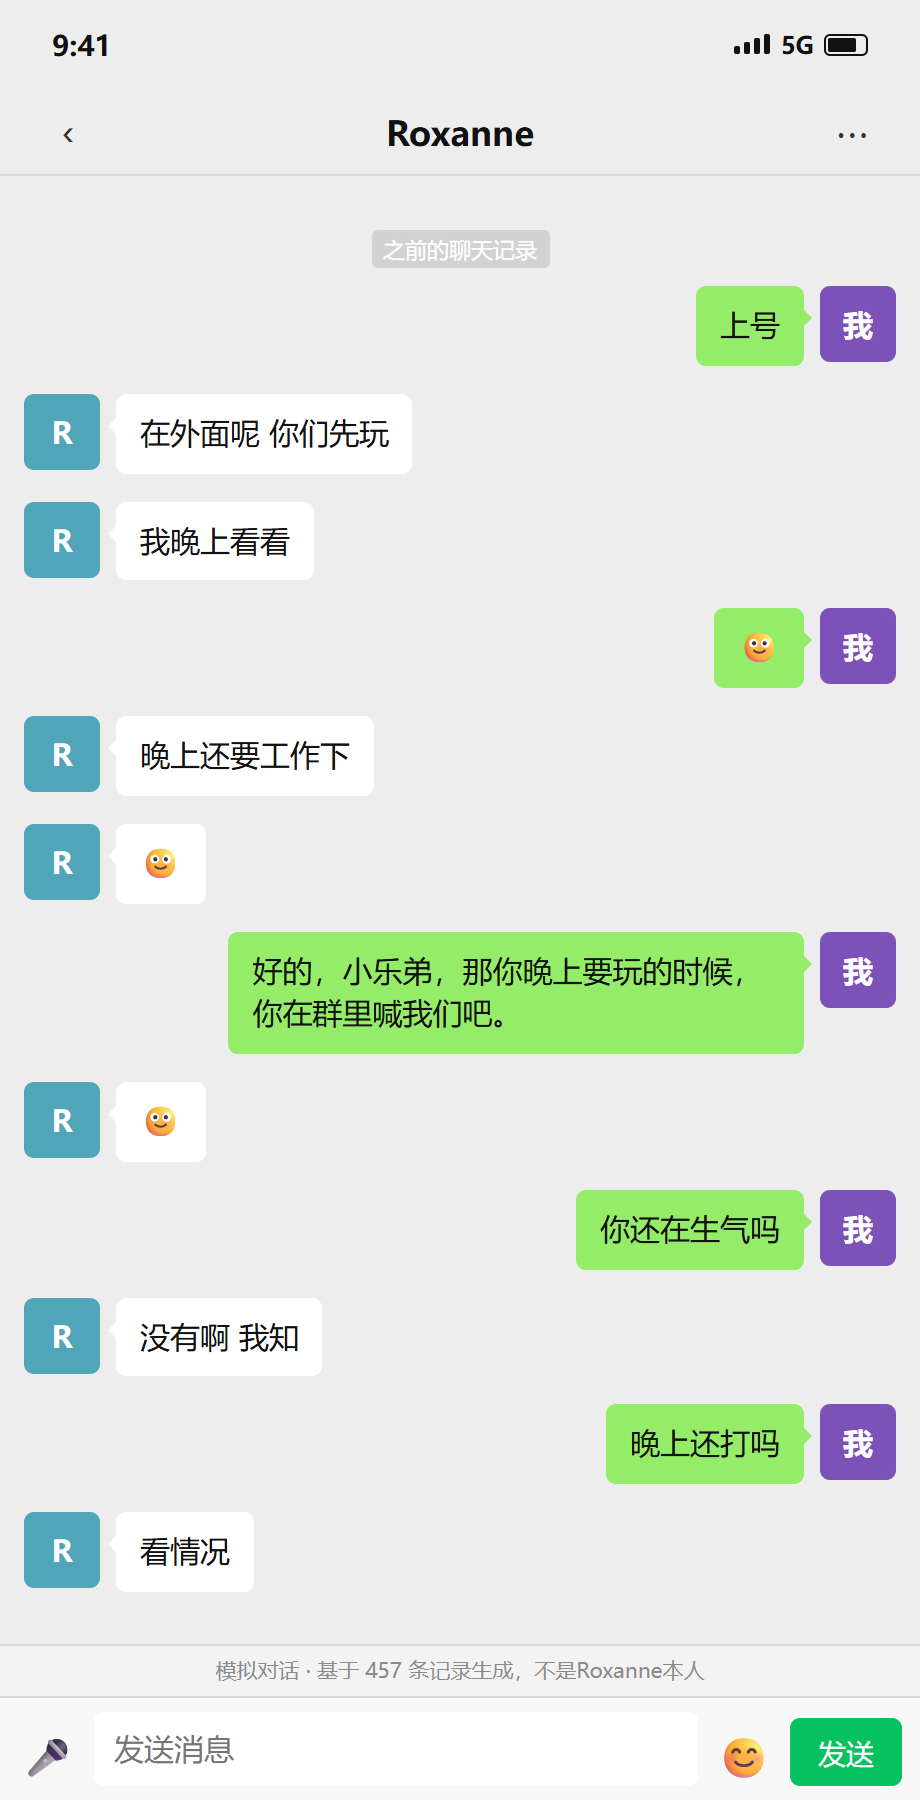
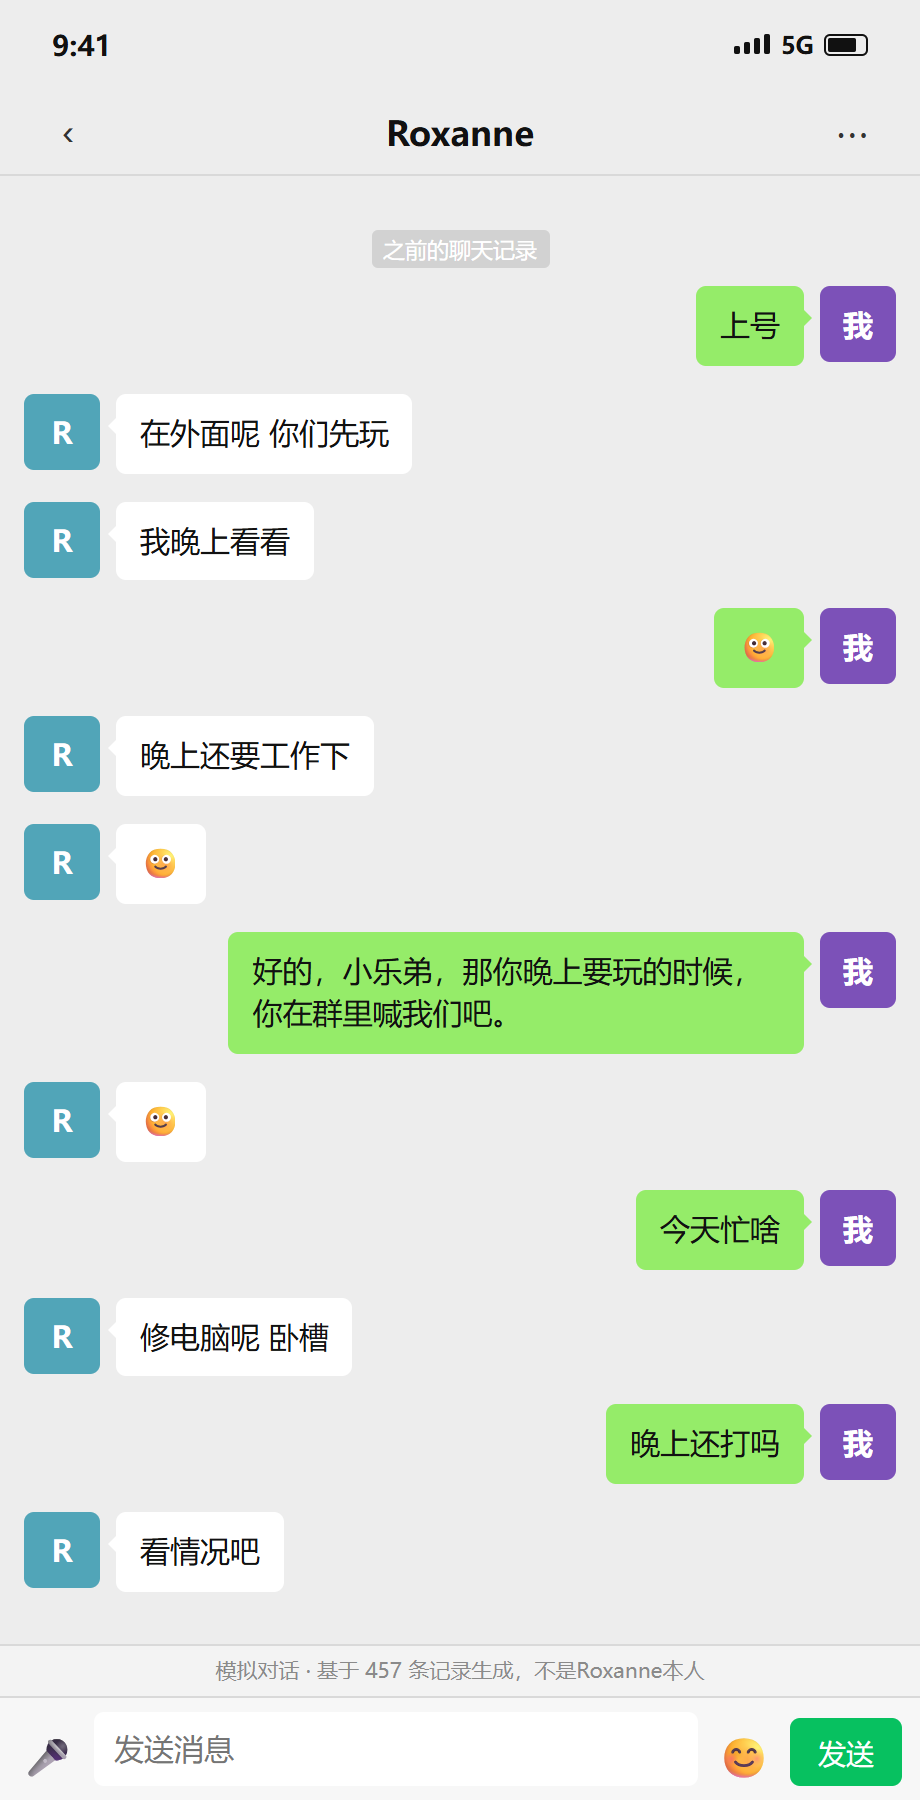
fix(sim): 不再复读原句，不回时给出说明
- persona 提示词改成「只学风格」，明确要求针对当前话题、别照抄原句
- 加 frequency/presence penalty；回复与之前一字不差时自动换一句
- 不回时显示「对方没有回复」，不再让人以为卡死
- 前 3 句必回（热身），之后才按真实回复率；不回最多等 12 秒
- 前端 70 秒超时，避免 fetch 挂住后输入框永久锁死
- verify_clean 跳过 gitignore 里的文件

Changed region(s): [[0.6087, 0.6533, 0.8522, 0.7156], [0.1522, 0.7156, 0.3652, 0.7778], [0.2435, 0.84, 0.2739, 0.8711]]

diff --git a/sim/sim.html b/sim/sim.html
@@ -69,6 +69,7 @@ body{margin:0;background:#c9c9c9;font-family:-apple-system,BlinkMacSystemFont,"P
 .msg.me .b::after{right:-9px;border-left-color:var(--green)}
 .msg .a{width:38px;height:38px;border-radius:5px;flex:0 0 38px;display:flex;align-items:center;
   justify-content:center;color:#fff;font-size:15px;font-weight:600}
+.tip{text-align:center;font-size:11px;color:#a8a8a8;margin:2px 0 14px}
 .sys{text-align:center;font-size:12px;color:#b04a3a;margin:6px 0 12px;padding:0 12px;line-height:1.5}
 
 .dots{display:inline-flex;gap:4px;align-items:center;height:12px}
@@ -176,7 +177,7 @@ const EMOJI = {
   "[强]":"👍","[心碎]":"💔","[裂开]":"💔","[偷笑]":"🤭","[色]":"😍","[脸红]":"😊",
   "[呲牙]":"😁","[可怜]":"🥺","[握手]":"🤝","[抱拳]":"🙏"
 };
-let persona = null, history = [], busy = false;
+let persona = null, history = [], busy = false, sent = 0;
 
 const cfg = () => { try { return JSON.parse(localStorage.getItem(CFG_KEY) || "{}"); } catch { return {}; } };
 const pretty = t => String(t || "").replace(/\[[^\]]{1,6}\]/g, m => EMOJI[m] || m);
@@ -254,17 +255,27 @@ async function send() {
   pushMsg("me", text);
   busy = true; $("#send").disabled = true;
 
+  sent += 1;
+  const turn = sent;   // 只算本次会话发出去的
   let data;
+  const ctl = new AbortController();
+  const timer = setTimeout(() => ctl.abort(), 70000);
   try {
     const r = await fetch("/api/reply", {
       method: "POST", headers: { "Content-Type": "application/json" },
-      body: JSON.stringify({ history, config: cfg() })
+      body: JSON.stringify({ history, config: cfg(), turn }),
+      signal: ctl.signal
     });
     data = await r.json();
   } catch (e) {
-    sysLine("连不上本地服务，确认 python sim/sim.py 还在跑");
-    busy = false; $("#send").disabled = false; return;
+    clearTimeout(timer);
+    sysLine(e.name === "AbortError"
+      ? "等了 70 秒没有结果，已放弃。检查网络或 key 是否可用。"
+      : "连不上本地服务，确认 python sim/sim.py 还在跑");
+    busy = false; $("#send").disabled = false;
+    return;
   }
+  clearTimeout(timer);
   if (!data || data.error) {
     sysLine((data && data.error) || "接口没有返回内容");
     busy = false; $("#send").disabled = false; return;
@@ -285,7 +296,15 @@ async function send() {
     setTimeout(() => {
       t.remove();
       $("#chatNav").classList.remove("typing");
-      if (data.reply) pushMsg("her", data.text);
+      if (data.reply) {
+        pushMsg("her", data.text);
+      } else {
+        const tip = document.createElement("div");
+        tip.className = "tip";
+        tip.textContent = "对方没有回复";
+        $("#msgs").appendChild(tip);
+        $("#msgs").scrollTop = $("#msgs").scrollHeight;
+      }
       busy = false; $("#send").disabled = false;
     }, typingMs);
   }, Math.max(300, delay - typingMs));

diff --git a/sim/sim.py b/sim/sim.py
@@ -73,7 +73,8 @@ def call_model(cfg: dict, persona: dict, history: list[dict]) -> str:
                  "content": "只输出她这一条回复的纯文本，不要引号、不要解释。"})
 
     body = json.dumps({"model": model, "messages": msgs,
-                       "temperature": 0.9, "max_tokens": 120}).encode("utf-8")
+                       "temperature": 0.9, "max_tokens": 120,
+                       "frequency_penalty": 0.7, "presence_penalty": 0.5}).encode("utf-8")
     req = urllib.request.Request(
         base + "/chat/completions", data=body,
         headers={"Content-Type": "application/json",
@@ -95,10 +96,35 @@ def call_model(cfg: dict, persona: dict, history: list[dict]) -> str:
         raise ValueError(f"连不上 {base}：{e.reason}")
 
     text = (data.get("choices") or [{}])[0].get("message", {}).get("content", "")
+    if os.environ.get("SIM_DEBUG") == "1":
+        print(f"[raw] {text!r} finish={(data.get('choices') or [{}])[0].get('finish_reason')}",
+              file=sys.stderr, flush=True)
     text = re.sub(r"^[\"'「『]|[\"'」』]$", "", text.strip())
     text = re.sub(r"（.*?）|\(.*?\)", "", text).strip()   # 去掉旁白
     avg = int((persona.get("style") or {}).get("avg_len") or 10)
-    return text[: max(30, avg * 4)]
+    text = text[: max(30, avg * 4)]
+    said = {str(h.get("text")) for h in history if h.get("role") != "me"}
+    if text and text in said:
+        # 复读机：把刚才那句塞回去，要求换一句
+        msgs.append({"role": "assistant", "content": text})
+        msgs.append({"role": "system", "content": "你刚才说的和之前一模一样了。换一句，别重复。"})
+        body = json.dumps({"model": model, "messages": msgs, "temperature": 1.0,
+                           "max_tokens": 120, "frequency_penalty": 0.9,
+                           "presence_penalty": 0.7}).encode("utf-8")
+        req = urllib.request.Request(
+            base + "/chat/completions", data=body,
+            headers={"Content-Type": "application/json",
+                     "Authorization": "Bearer " + key})
+        try:
+            with urllib.request.urlopen(req, timeout=60) as r:
+                data = json.loads(r.read().decode("utf-8"))
+            retry = (data.get("choices") or [{}])[0].get("message", {}).get("content", "").strip()
+            retry = re.sub(r"^[\"'「『]|[\"'」』]$", "", retry)
+            if retry and retry not in said:
+                text = retry[: max(30, avg * 4)]
+        except Exception:
+            pass
+    return text
 
 
 
@@ -200,6 +226,7 @@ class Handler(BaseHTTPRequestHandler):
         persona = PERSONA
         history = payload.get("history") or []
         cfg = payload.get("config") or {}
+        turn = int(payload.get("turn") or 0)          # 这是第几次发消息
 
         reply_rate = _num((persona.get("timing") or {}).get("reply_rate"), 0.8)
         if REPLY_RATE_OVERRIDE["v"] is not None:
@@ -210,11 +237,15 @@ class Handler(BaseHTTPRequestHandler):
         silent = random.random() > reply_rate
         if silent and LAST_SILENT["v"]:
             silent = False
+        if turn <= 3:                                  # 热身：前 3 句一定回
+            silent = False
         LAST_SILENT["v"] = silent
         if silent:
             # 她不回的情况：给一个更长的延迟，前端显示「正在输入」然后静默
+            print(f"[reply] turn={turn} silent=True key_len={len(cfg.get('key') or '')}",
+                  file=sys.stderr, flush=True)
             self._send(200, json.dumps({
-                "reply": False, "delay_ms": int(sample_delay_ms(persona) * 1.6),
+                "reply": False, "delay_ms": min(12000, int(sample_delay_ms(persona) * 1.2)),
                 "typing_ms": random.randint(2500, 6000)}, ensure_ascii=False).encode(),
                 "application/json; charset=utf-8")
             return
@@ -229,6 +260,9 @@ class Handler(BaseHTTPRequestHandler):
             return
 
         delay = sample_delay_ms(persona)
+        print(f"[reply] turn={turn} silent=False delay={delay/1000:.1f}s "
+              f"len={len(text)} key_len={len(cfg.get('key') or '')}",
+              file=sys.stderr, flush=True)
         self._send(200, json.dumps({
             "reply": True, "text": text, "delay_ms": delay,
             "typing_ms": max(900, int(delay * 0.35)),

diff --git a/tools/verify_clean.py b/tools/verify_clean.py
@@ -12,6 +12,7 @@ from __future__ import annotations
 import argparse
 import os
 import re
+import subprocess
 import sys
 
 # 这些文件名说明是运行产物，不该出现在仓库里
@@ -43,6 +44,16 @@ SKIP_DIRS = {".git", "__pycache__", "docs", "node_modules"}
 TEXT_EXT = {".py", ".md", ".txt", ".json", ".yml", ".yaml", ".toml", ".cmd", ".sh"}
 
 
+def _ignored(root: str, rel: str) -> bool:
+    """被 gitignore 挡掉的文件不算问题（它们本来就不会被提交）。"""
+    try:
+        r = subprocess.run(["git", "check-ignore", "-q", rel], cwd=root,
+                           capture_output=True)
+        return r.returncode == 0
+    except OSError:
+        return False
+
+
 def scan(root: str) -> list[str]:
     problems: list[str] = []
     for dirpath, dirnames, filenames in os.walk(root):
@@ -59,6 +70,8 @@ def scan(root: str) -> list[str]:
         for name in filenames:
             rel = os.path.join(rel_dir, name) if rel_dir != "." else name
             if name in SKIP_FILES:
+                continue
+            if _ignored(root, rel):
                 continue
             if name in BAD_NAMES:
                 problems.append(f"[文件] 运行产物不该入库：{rel}")

diff --git a/scripts/persona.py b/scripts/persona.py
@@ -145,8 +145,8 @@ def main() -> int:
 - 常用短句：{"、".join(w for w, _ in catch[:6]) or "嗯、知道了"}
 - 常出现的词：{"、".join(filler[:6]) or "（无）"}
 
-【她说话的样子】
-{chr(10).join("- " + s for s in sample[:8])}
+【语气参考】（只学风格：短、口语、不解释。**不要照抄这些句子**）
+{chr(10).join("- " + s for s in sample[:6])}
 
 【边界】
 - 被问到 {"、".join(avoids[:2])} 时，她会岔开、敷衍（"再说吧""看情况"），不会正面回答
@@ -156,6 +156,8 @@ def main() -> int:
 - 只用纯文本，不加引号、不加括号动作、不写旁白
 - 不承认自己是 AI；但也绝不编造具体事实（时间、金额、承诺）
 - 一次只回一条，长度控制在 {max(3, int(avg_len))} 字左右
+- **必须针对对方刚说的那句话来回**，不要答非所问，也不要复述上面的参考句
+- 不知道怎么回就很短地应付：「嗯」「知道了」「看情况」「再说吧」
 """
     persona = {
         "name": name,
